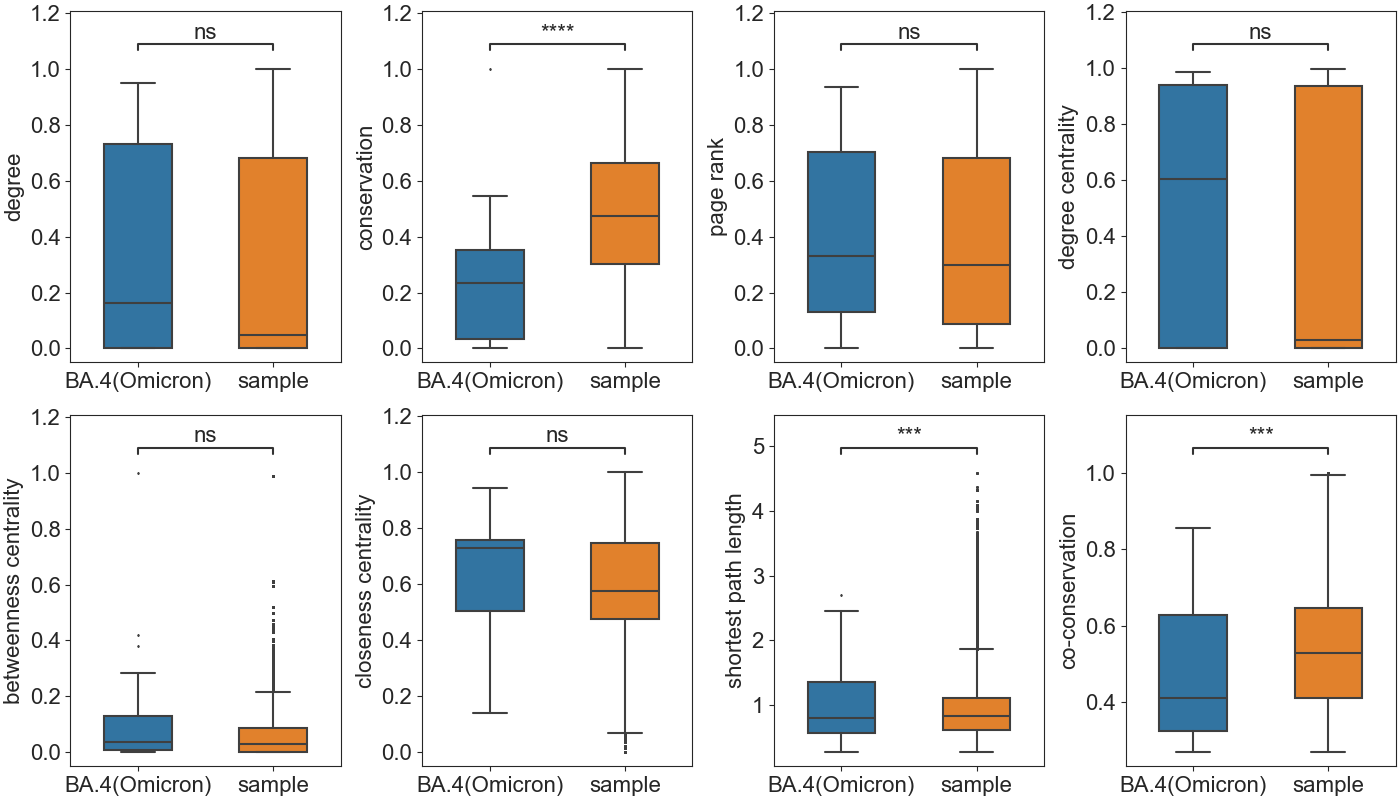
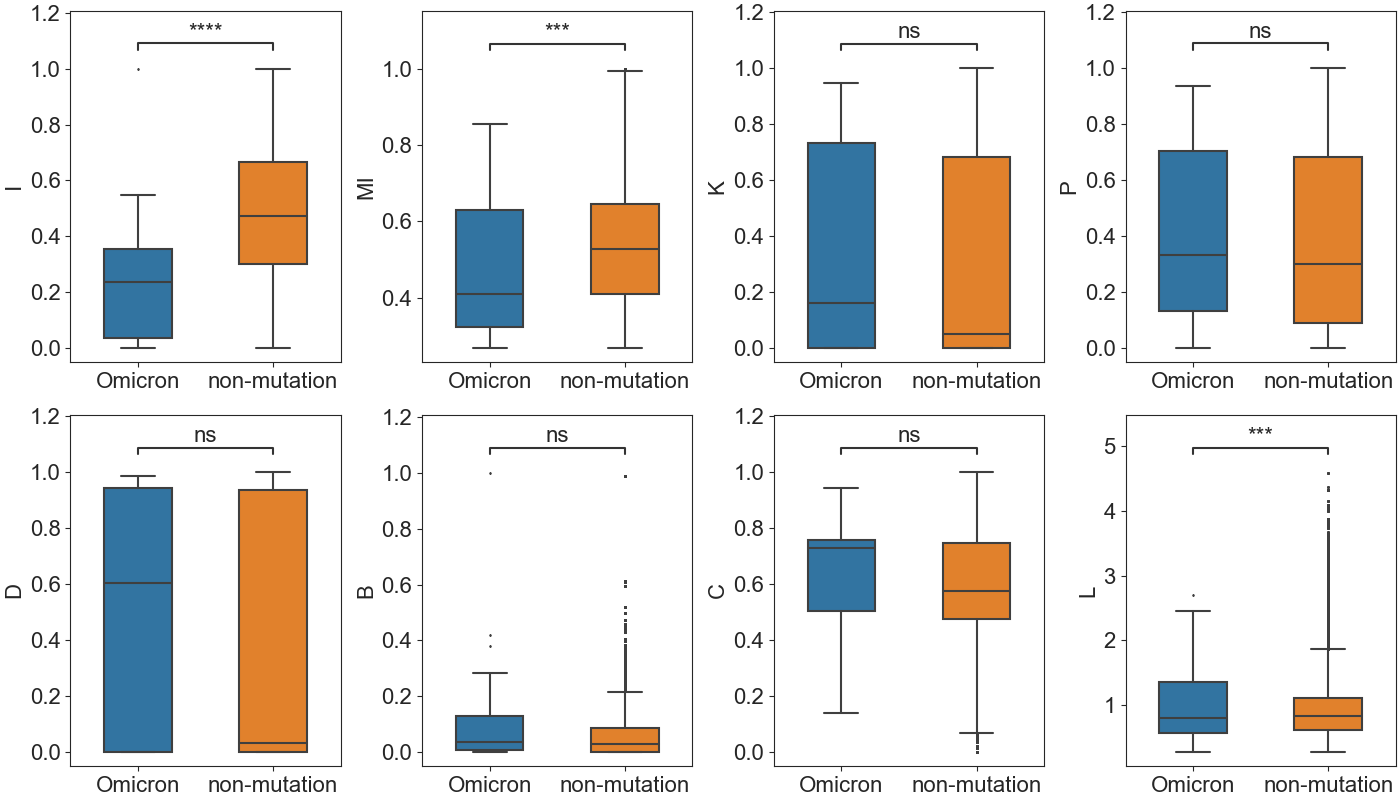
update boxplot, x and y label

diff --git a/v2/output_procon_analysis.py b/v2/output_procon_analysis.py
@@ -4,6 +4,7 @@ import logging
 import math
 import os
 import pickle
+import re
 import time
 from collections import defaultdict
 from functools import reduce
@@ -842,9 +843,9 @@ class ProConNetwork:
         # self._plot_2D()  # 二维坐标图
 
         # 以 substitution 为单位的图
-        # self._boxplot_for_all_kinds()
-        # self._boxplot_for_all_kinds("BA.4(Omicron)")
-        # self._boxplot_for_all_kinds("B.1.617.2(Delta)")
+        self._boxplot_for_all_kinds()
+        self._boxplot_for_all_kinds("BA.4(Omicron)")
+        self._boxplot_for_all_kinds("B.1.617.2(Delta)")
 
         # 以毒株为单位的图
         self._group_plot_with_node()
@@ -1055,20 +1056,23 @@ class ProConNetwork:
         )
 
     def _boxplot_for_all_kinds(self, target_variant=None):
-        def _func_boxplot(variant, sample, ax, func, name, target_variant):
+        def _func_boxplot(variant, sample, ax, func, name, target_variant=None):
+            if not target_variant is None:
+                target_variant = re.findall("\((.*?)\)", target_variant)[0]
             variant_scores = func(variant)
             sample_scores = [j for i in sample for j in func(i)]  # 分组求平均
 
-            variant_name = "variant" if target_variant is None else target_variant
+            variant_name = "mutation" if target_variant is None else target_variant
+            no_variant_name = "non-mutation"
             # 绘制箱线图
             _plot_data = pd.DataFrame(
                 {"score": variant_scores + sample_scores,
                  "label": [variant_name] * len(variant_scores) + [
-                     "sample"] * len(sample_scores)}
+                     no_variant_name] * len(sample_scores)}
             )
             x = "label"
             y = "score"
-            order = [variant_name, "sample"]
+            order = [variant_name, no_variant_name]
             sns.boxplot(data=_plot_data, x=x, y=y, ax=ax, order=order, fliersize=1, width=.5)
             # 标注 p value
             self.boxplot_add_p_value(_plot_data, ax, x, y, order, "Mann-Whitney")
@@ -1111,14 +1115,14 @@ class ProConNetwork:
 
     def get_functions(self):
         funcs = {
-            "degree": self.calculate_avg_weighted_degree,
-            "conservation": self.calculate_conservation,
-            "page rank": self.calculate_page_rank,
-            "degree centrality": self.calculate_degree_centrality,
-            "betweenness centrality": self.calculate_betweenness_centrality,
-            "closeness centrality": self.calculate_closeness_centrality,
-            "shortest path length": self.calculate_weighted_shortest_path,
-            "co-conservation": self.calculate_co_conservation,
+            "I": self.calculate_conservation,
+            "MI": self.calculate_co_conservation,
+            "K": self.calculate_avg_weighted_degree,
+            "P": self.calculate_page_rank,
+            "D": self.calculate_degree_centrality,
+            "B": self.calculate_betweenness_centrality,
+            "C": self.calculate_closeness_centrality,
+            "L": self.calculate_weighted_shortest_path,
         }
         return funcs
 
